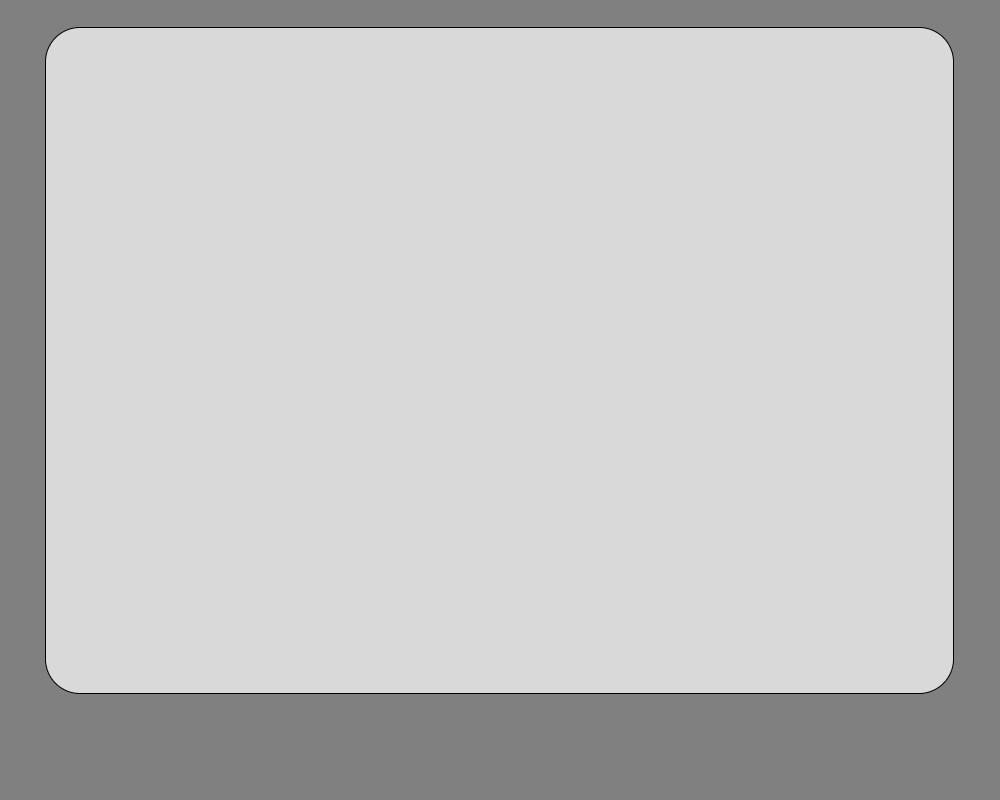
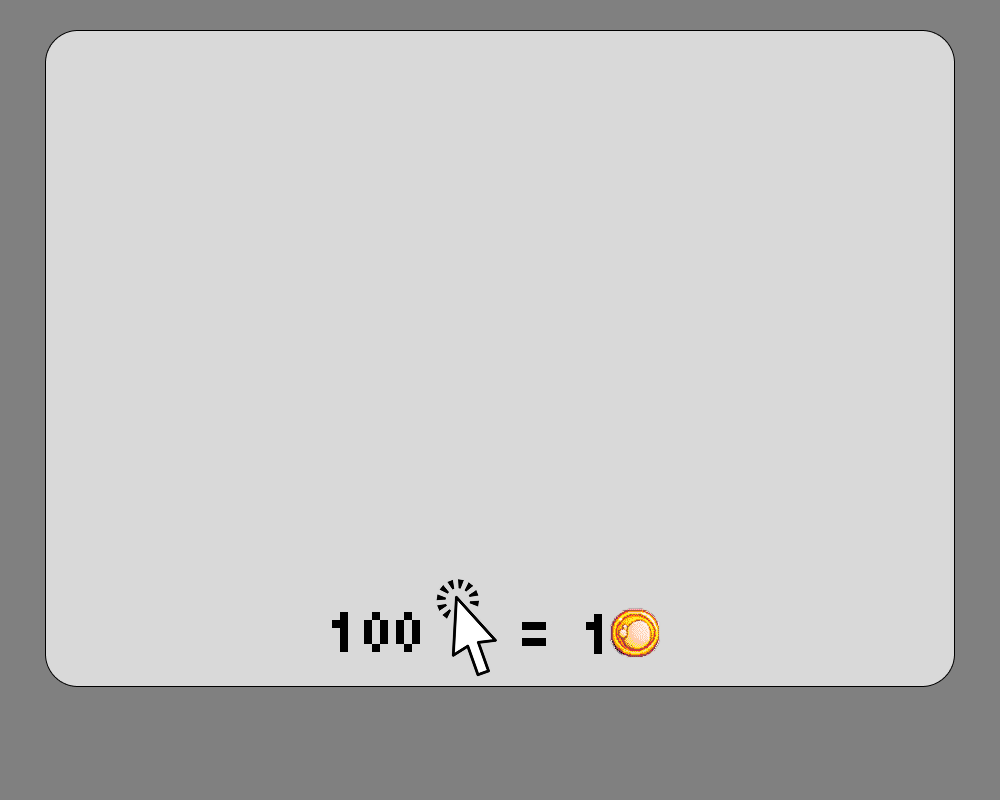
polishing and boost and buff machine fixes

Changed region(s): [[0.031, 0.7188, 0.961, 0.875], [0.062, 0.0312, 0.93, 0.0625], [0.527, 0.7812, 0.558, 0.8125]]

diff --git a/main.py b/main.py
@@ -259,6 +259,7 @@ class BuffMachine:
     def __init__(self) -> None:
         self.shuffle_result = None
         self.last_result_text = None
+        self.last_effect_kind = None
         self.active_effect_id = None
         self.active_effect_timer = None
         self.active_effect_tick_timer = None
@@ -269,6 +270,7 @@ class BuffMachine:
         text, etype, duration_ms, tick_ms, tick_val, _ = self.EFFECTS[self.active_effect_id]
         self.shuffle_result = text
         self.last_result_text = text
+        self.last_effect_kind = etype
 
         if duration_ms > 0:
             self.active_effect_timer = Timer(duration_ms)
@@ -729,13 +731,8 @@ class BoostCoin(Coin):
 
 class Course:
     def __init__(self) -> None:
-        self.course_coins = 0.0
-        self.course_clicks = 0.0
-
-    def courses_update(self):
         self.course_clicks = float(EXCHANGE_CLICKS_PER_NAMACOIN)
         self.course_coins = round(1.0 / EXCHANGE_CLICKS_PER_NAMACOIN, 6)
-        return self.course_coins, self.course_clicks
 
 def add_clicks():
     global \
@@ -908,7 +905,7 @@ cooldown_timer = Timer(1)
 coin_spawn_timer = Timer(2000)
 coin_boost_timer = Timer(5000)
 
-EXCHANGE_CLICKS_PER_NAMACOIN = 400
+EXCHANGE_CLICKS_PER_NAMACOIN = 100
 
 namapass_5min_timer = Timer(300000)
 namapass_10min_timer = Timer(600000)
@@ -934,13 +931,11 @@ button_machine = Button(
     BUFF_MACHINE_Y + buff_machine_image.get_height() + 48
 )
 buffm = BuffMachine()
-buffm_intermission_timer = Timer(120000) #120000
+buffm_intermission_timer = Timer(3000) #120000
 show_buff_effect_end_notice = False
 buff_effect_end_notice_timer = Timer(2000)
 
 course = Course()
-course.courses_update()
-course_timer = Timer(60000)
 
 coins = []
 MAX_COINS = 5
@@ -1503,20 +1498,22 @@ while running:
         effect_title = "Эффект:"
         effect_text = buffm.last_result_text if buffm.last_result_text else "Пока нет эффекта"
 
+        current_effect_kind = buffm.last_effect_kind
         if buffm.active_effect_id is not None:
-            _, effect_kind, _, _, _, _ = buffm.EFFECTS[buffm.active_effect_id]
-            if effect_kind == "buff":
-                effect_color = (140, 255, 140)
-                effect_title = "Бафф:"
-            else:
-                effect_color = (255, 140, 140)
-                effect_title = "Дебафф:"
+            _, current_effect_kind, _, _, _, _ = buffm.EFFECTS[buffm.active_effect_id]
+
+        if current_effect_kind == "buff":
+            effect_color = (140, 255, 140)
+            effect_title = "Бафф:"
+        elif current_effect_kind == "debuff":
+            effect_color = (255, 140, 140)
+            effect_title = "Дебафф:"
 
         effect_y = button_machine.y + 70
         screen.blit(font_25.render(effect_title, True, effect_color), (BUFF_MACHINE_TEXT_X, effect_y))
         if show_buff_effect_end_notice:
             screen.blit(
-                font_20.render("ENDED", True, (255, 245, 140)),
+                font_20.render("Эффект кончился", True, (255, 245, 140)),
                 (BUFF_MACHINE_TEXT_X + 112, effect_y + 4)
             )
         effect_y += 24
@@ -1551,10 +1548,18 @@ while running:
                 locked_button_gfield,
                 (button_to_minigame_from_game.x, button_to_minigame_from_game.y)
             )
-        screen.blit(
-            font_30.render(f"Буст: x{boost + 1}", True, BLACK),
+        
+        if boost >= 50:
+            screen.blit(
+            font_30.render("Буст: Макс.", True, BLACK),
             (55, 650)
         )
+        else:
+            screen.blit(
+                font_30.render(f"Буст: x{boost + 1}", True, BLACK),
+                (55, 650)
+            )
+
         screen.blit(
             font_25.render(f"Цена: {int(required_clicks_for_boost)}", True, BLACK),
             (56, 676)
@@ -2010,10 +2015,6 @@ while running:
         button_exchange_to_coins.draw(screen)
         button_exchange_to_clicks.draw(screen)
 
-        if course_timer.done():
-            course.courses_update()
-            course_timer.reset()
-
         screen.blit(
             font_30.render("Назад", True, BLACK),
             (button_exchanging_back_to_shop.x + 52.5, button_exchanging_back_to_shop.y + 10.5)
@@ -2033,14 +2034,6 @@ while running:
         screen.blit(
             font_30.render("Обменять", True, BLACK),
             (button_exchange_to_clicks.x + 25, button_exchange_to_clicks.y + 10.5)
-        )
-        screen.blit(
-            font_30.render(f"Курс: {course.course_clicks}", True, BLACK),
-            (150, button_exchange_to_clicks.y + 10.5)
-        )
-        screen.blit(
-            font_30.render(f"Курс: {course.course_coins}", True, BLACK),
-            (150, button_exchange_to_coins.y + 10.5)
         )
 
     if mode == "backgrounds_shop":
